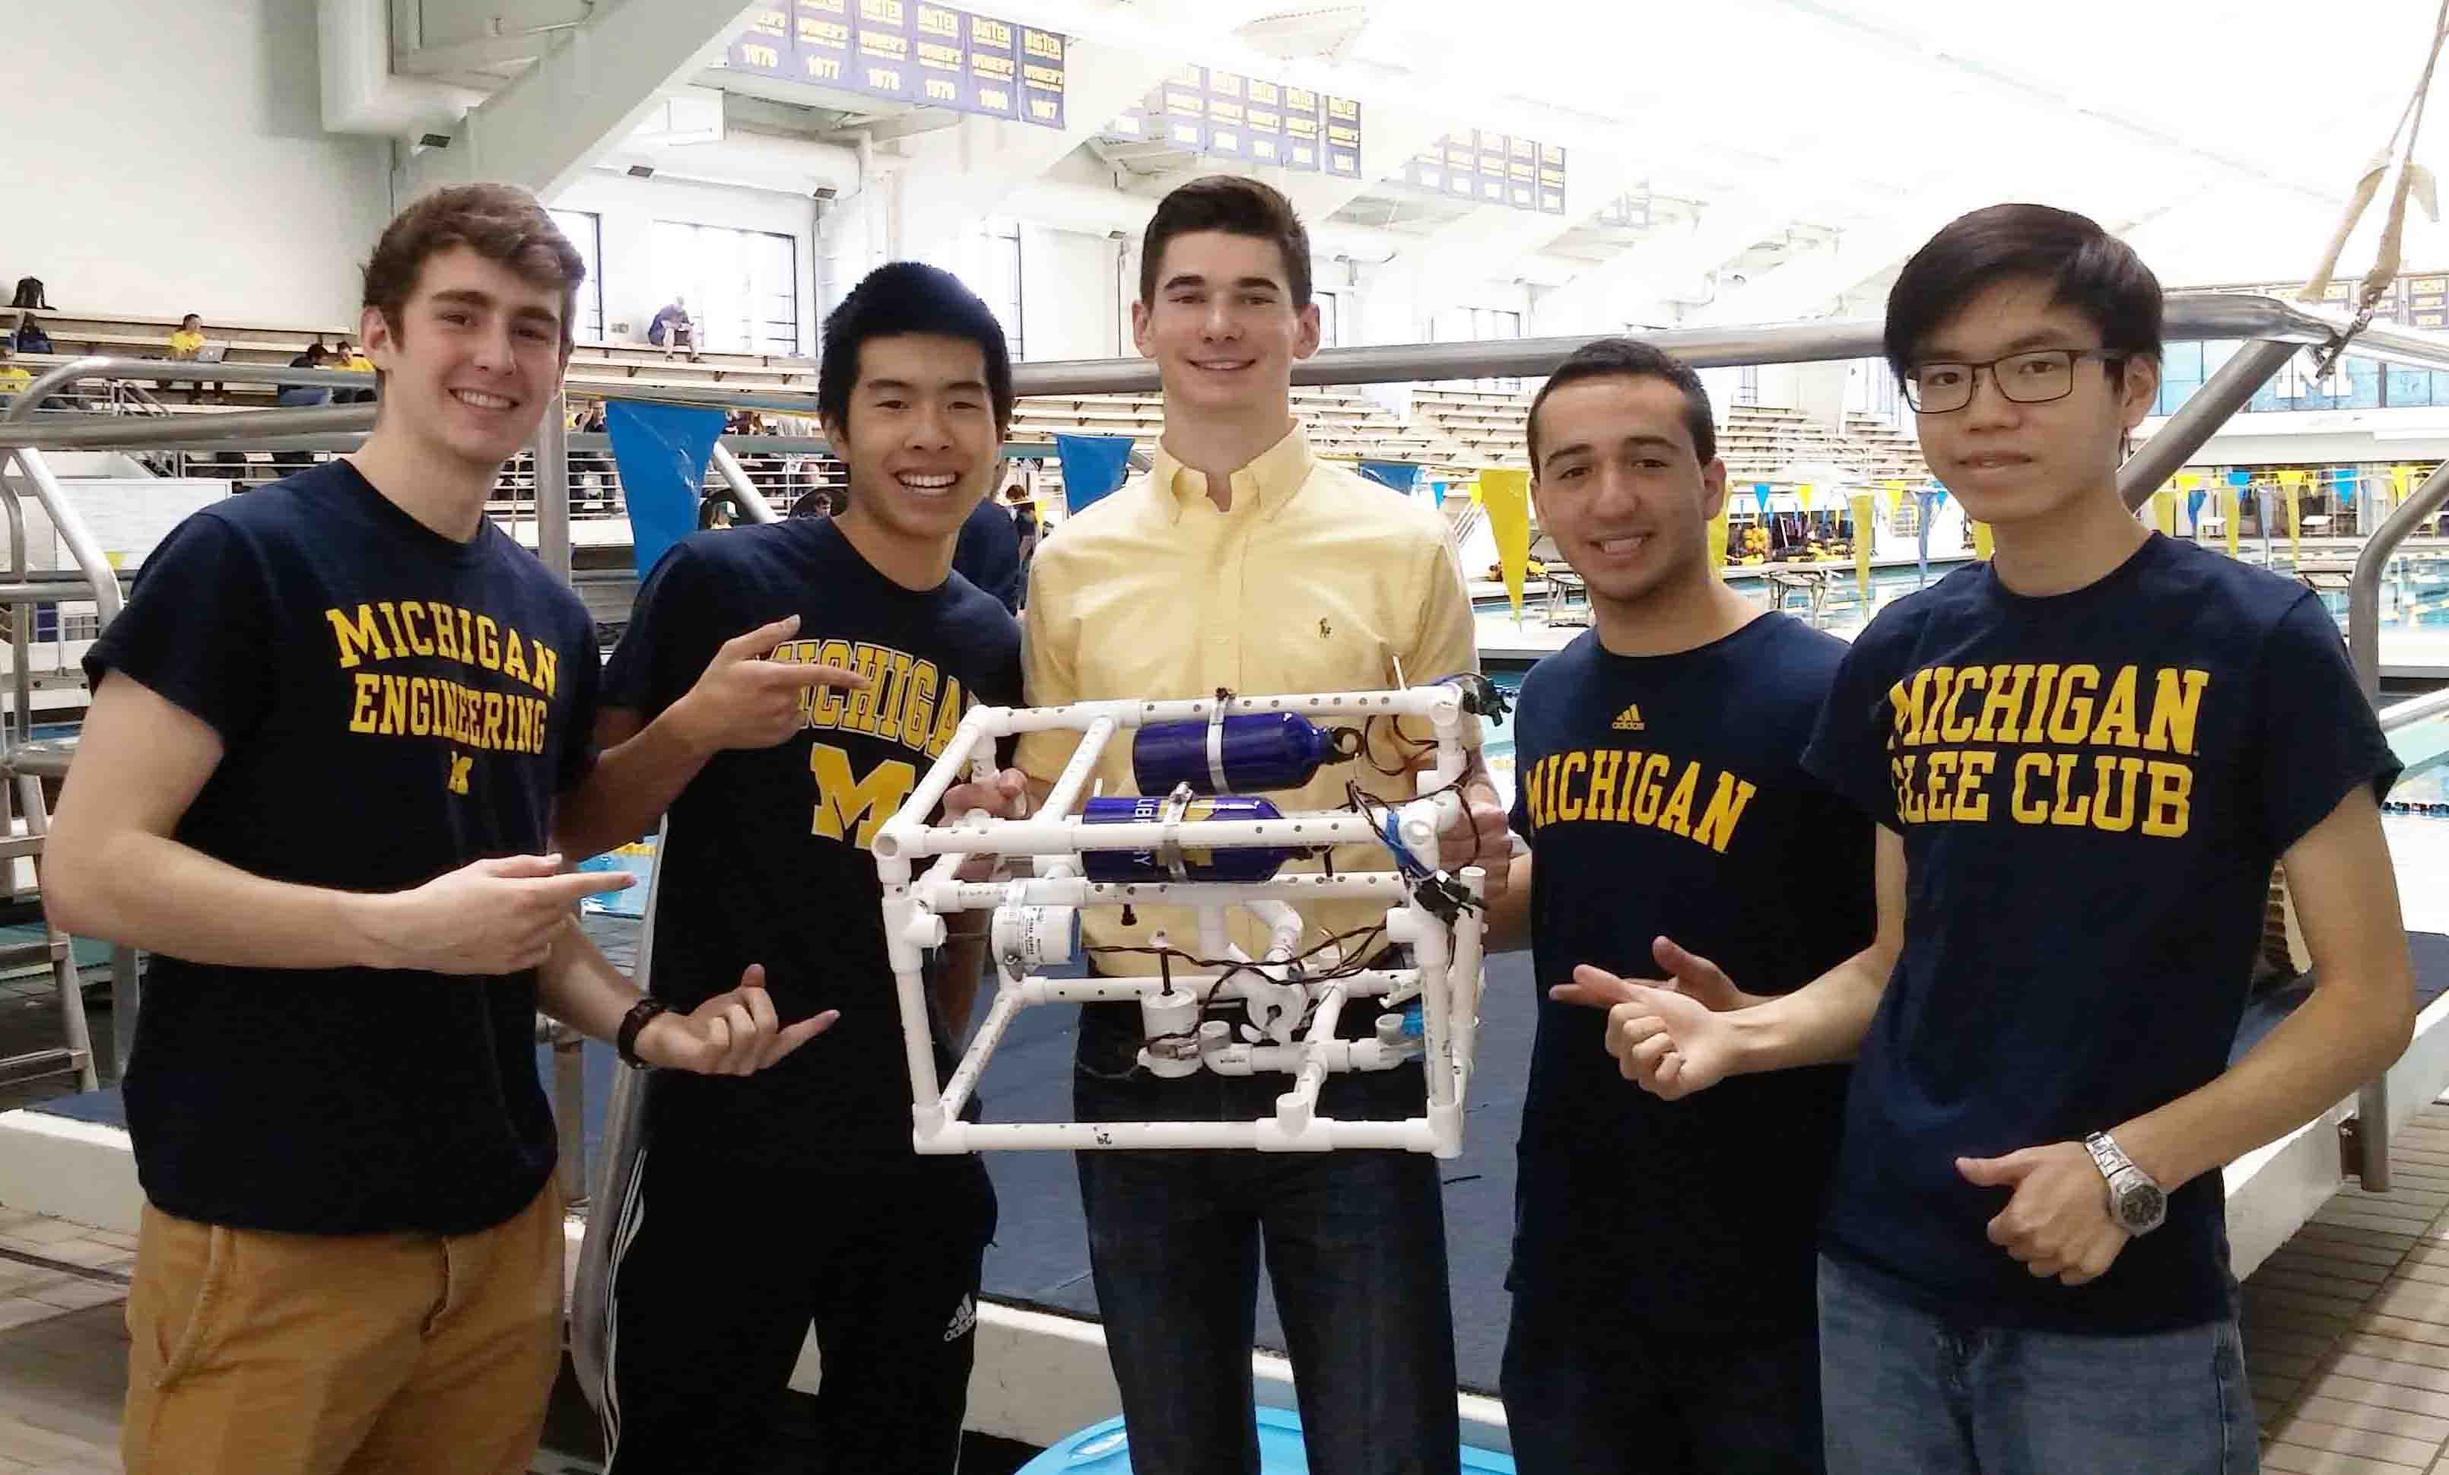
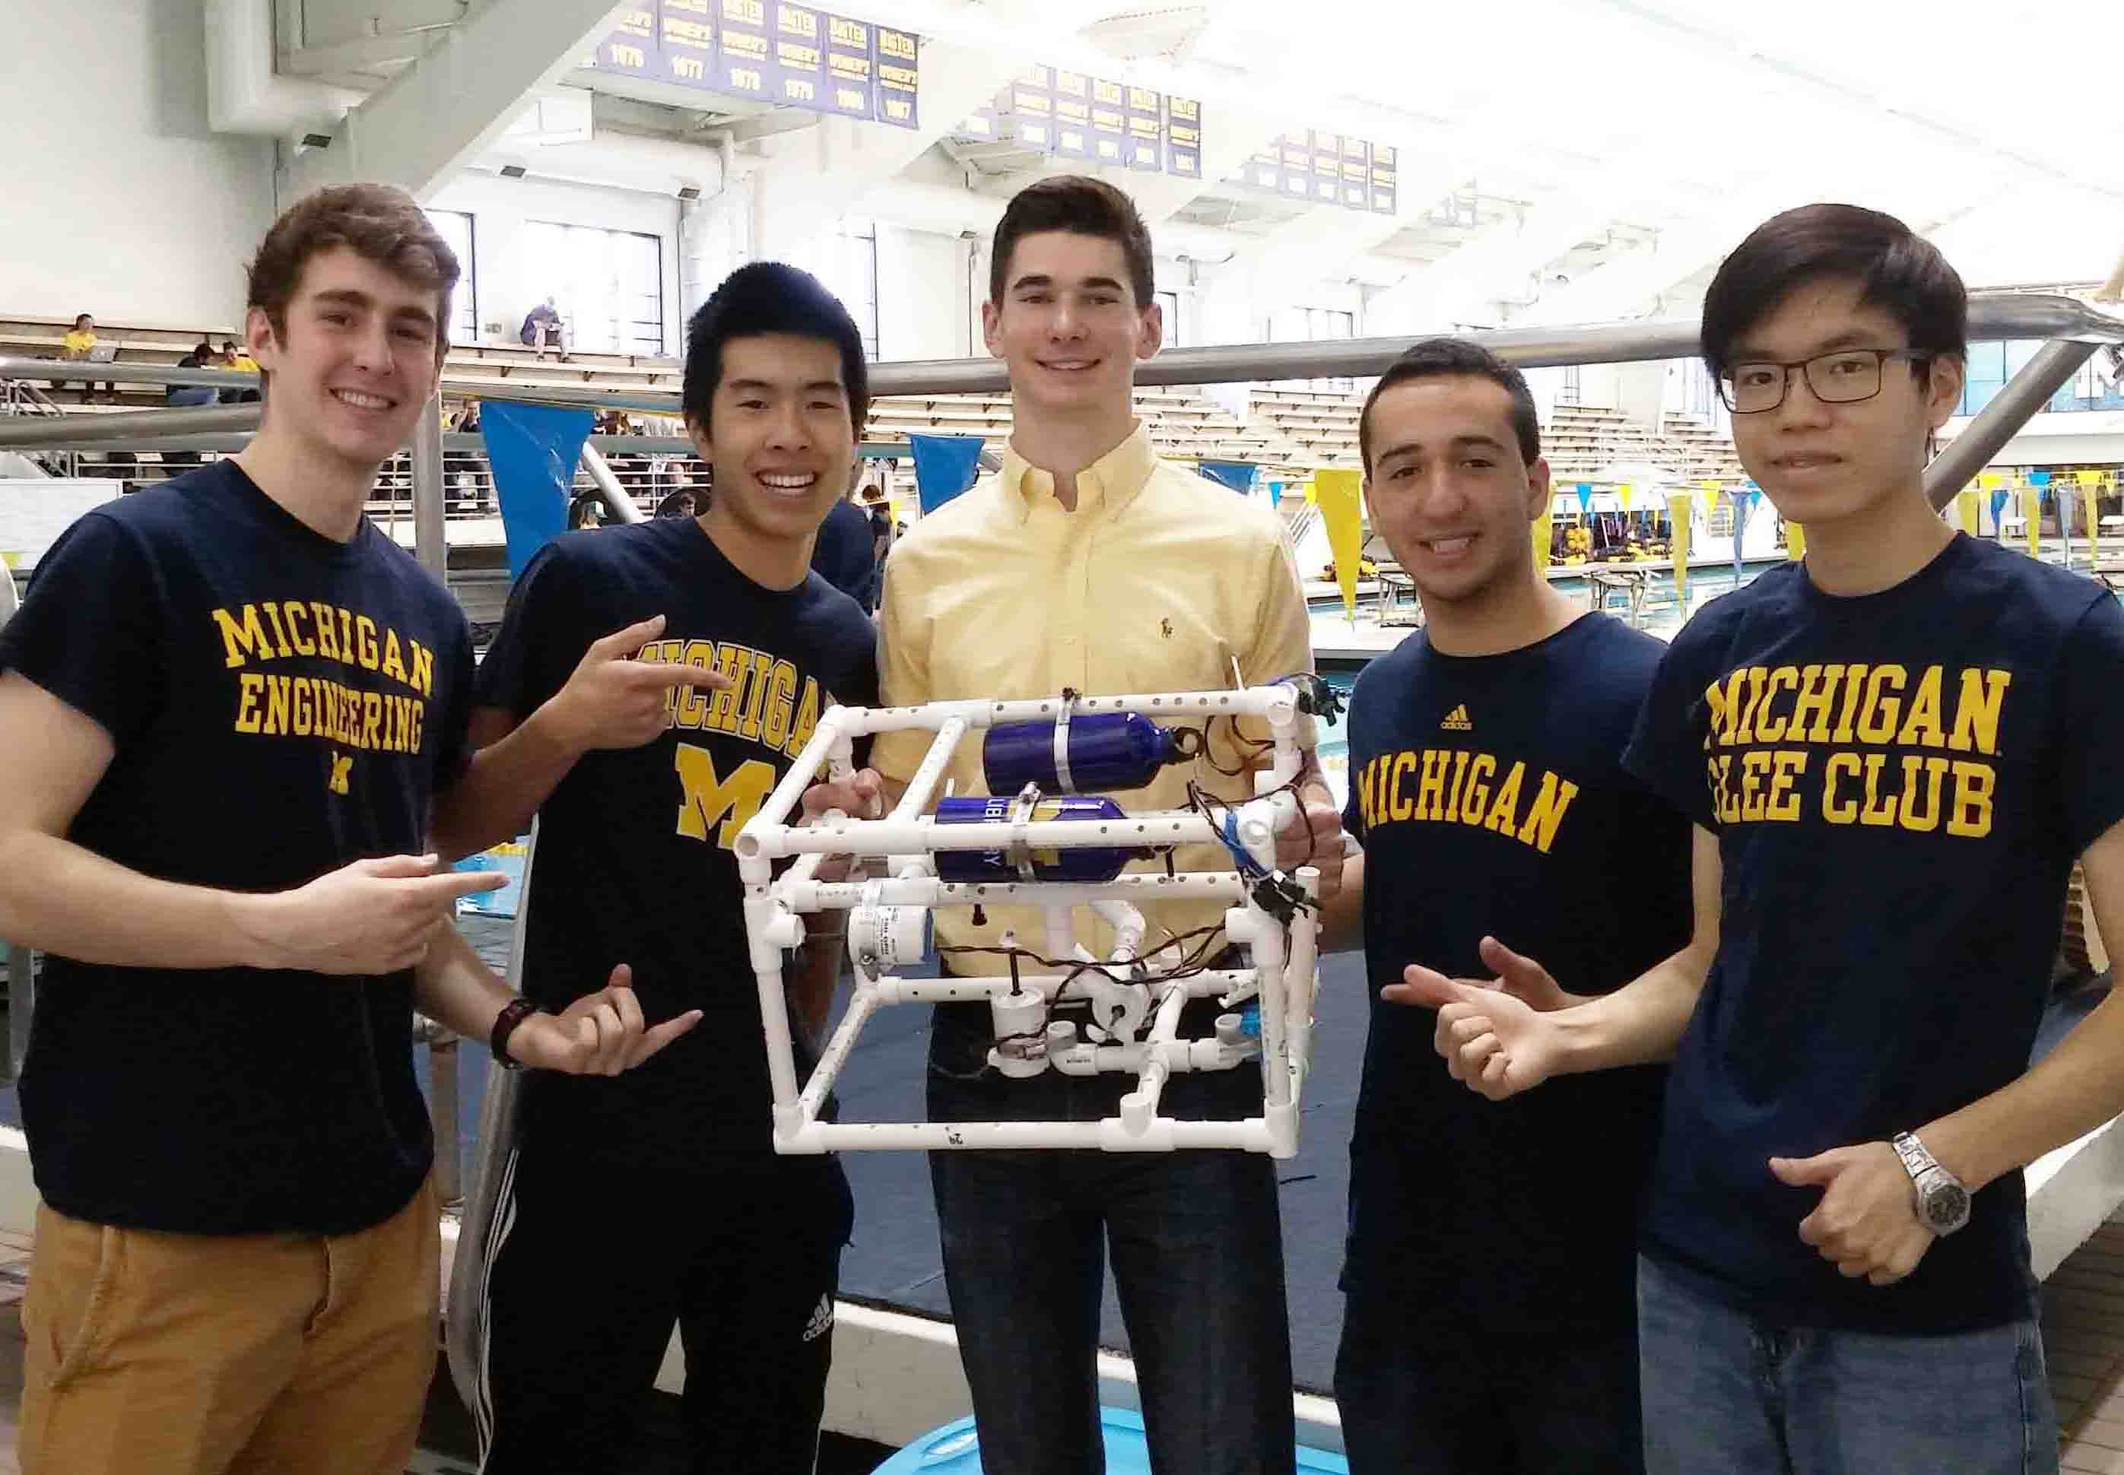
fixed image ratio and got rid of extra images. added projects

diff --git a/index.html b/index.html
@@ -144,7 +144,7 @@
 										</ul>
 									</div>
 								</article>
-								<article>
+								<!--<article>
 									<a href="images/gallery/fulls/06.jpg" class="image">
 										<img src="images/gallery/thumbs/06.jpg" alt="" />
 									</a>
@@ -227,9 +227,8 @@
 											<li><span class="button small">Details</span></li>
 										</ul>
 									</div>
-								</article>
+								</article>-->
 							</div>
-
 					</section>
 
 				<!-- Six -->
@@ -242,20 +241,20 @@
 							<div class="items style1 medium onscroll-fade-in">
 								<section>
 									<span class="icon style2 major fa-diamond"></span>
-									<h3>Lorem</h3>
-									<p>Lorem ipsum dolor sit amet, consectetur adipiscing elit. Morbi dui turpis, cursus eget orci amet aliquam congue semper. Etiam eget ultrices risus nec tempor elit.</p>
+									<h3>Stock Trading Algorithm</h3>
+									<p>This stock trading algorithm will essentially calculate how much a company is worth, compare it with the current stock prices and recommend whether or not I should buy or sell. Future goals will be to automate this to have stocks as a source of passive income.</p>
 								</section>
 								<section>
 									<span class="icon style2 major fa-save"></span>
-									<h3>Ipsum</h3>
-									<p>Lorem ipsum dolor sit amet, consectetur adipiscing elit. Morbi dui turpis, cursus eget orci amet aliquam congue semper. Etiam eget ultrices risus nec tempor elit.</p>
+									<h3>This Website!</h3>
+									<p>I used a highly modular template provided by HTML5 UP, allowing me to use my general knowledge of HTML to customize my website. Hosting done for free through GitHub Pages.</p>
 								</section>
 								<section>
 									<span class="icon style2 major fa-bar-chart"></span>
-									<h3>Dolor</h3>
-									<p>Lorem ipsum dolor sit amet, consectetur adipiscing elit. Morbi dui turpis, cursus eget orci amet aliquam congue semper. Etiam eget ultrices risus nec tempor elit.</p>
+									<h3>Shrub</h3>
+									<p>Shrub is a crowd sourced social app catered towards millenials living on a budget who want something to do when they hang out! It's similar to Yelp but for social places. </p>
 								</section>
-								<section>
+								<!--<section>
 									<span class="icon style2 major fa-wifi"></span>
 									<h3>Amet</h3>
 									<p>Lorem ipsum dolor sit amet, consectetur adipiscing elit. Morbi dui turpis, cursus eget orci amet aliquam congue semper. Etiam eget ultrices risus nec tempor elit.</p>
@@ -299,7 +298,7 @@
 									<span class="icon style2 major fa-leaf"></span>
 									<h3>Risus</h3>
 									<p>Lorem ipsum dolor sit amet, consectetur adipiscing elit. Morbi dui turpis, cursus eget orci amet aliquam congue semper. Etiam eget ultrices risus nec tempor elit.</p>
-								</section>
+								</section>-->
 							</div>
 						</div>
 					</section>
@@ -333,11 +332,12 @@
 					<footer class="wrapper style1 align-center">
 						<div class="inner">
 							<ul class="icons">
-								<li><a href="#" class="icon style2 fa-twitter"><span class="label">Twitter</span></a></li>
-								<li><a href="https://www.facebook.com/thematthewchen" class="icon style2 fa-facebook"><span class="label">Facebook</span></a></li>
-								<li><a href="#" class="icon style2 fa-instagram"><span class="label">Instagram</span></a></li>
-								<li><a href="https://www.linkedin.com/in/thematthewchen" class="icon style2 fa-linkedin"><span class="label">LinkedIn</span></a></li>
-								<li><a href="#" class="icon style2 fa-envelope"><span class="label">Email</span></a></li>
+								<p>Email: mattchen@umich.edu</p>
+								<!--<li><a href="#" class="icon style2 fa-twitter"><span class="label" target="_blank">Twitter</span></a></li>-->
+								<li><a href="https://www.facebook.com/thematthewchen" class="icon style2 fa-facebook" target="_blank"><span class="label">Facebook</span></a></li>
+								<!--<li><a href="#" class="icon style2 fa-instagram"><span class="label" target="_blank">Instagram</span></a></li>-->
+								<li><a href="https://www.linkedin.com/in/thematthewchen" class="icon style2 fa-linkedin" target="_blank"><span class="label">LinkedIn</span></a></li>
+								<!--<li><a href="#" class="icon style2 fa-envelope"><span class="label" target="_blank">Email</span></a></li>-->
 							</ul>
 							<p>&copy; Matthew Chen. Design: <a href="https://html5up.net">HTML5 UP</a>.</p>
 						</div>
